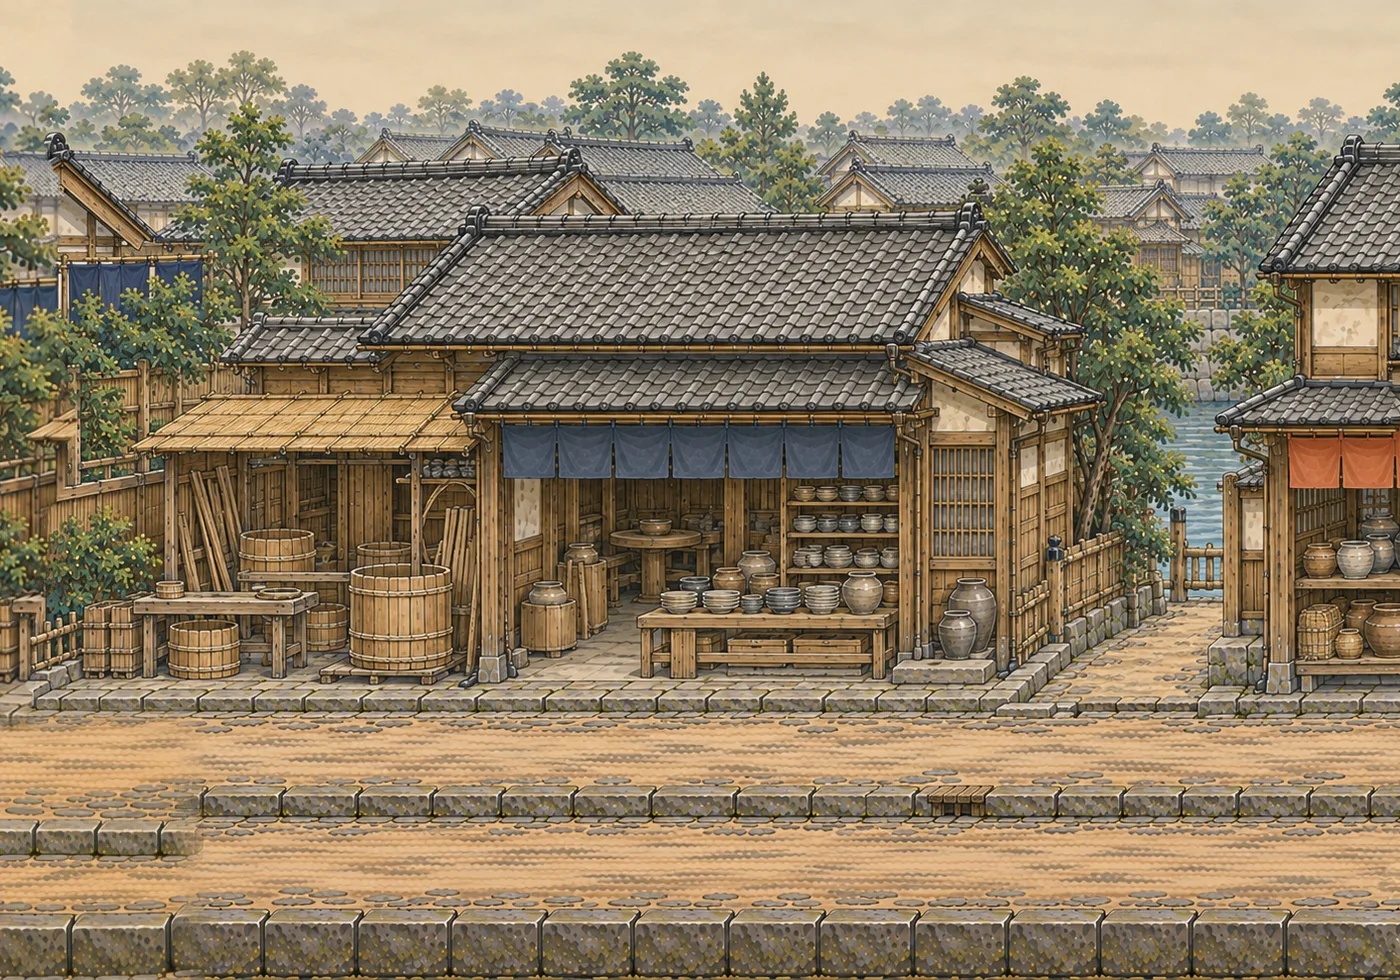
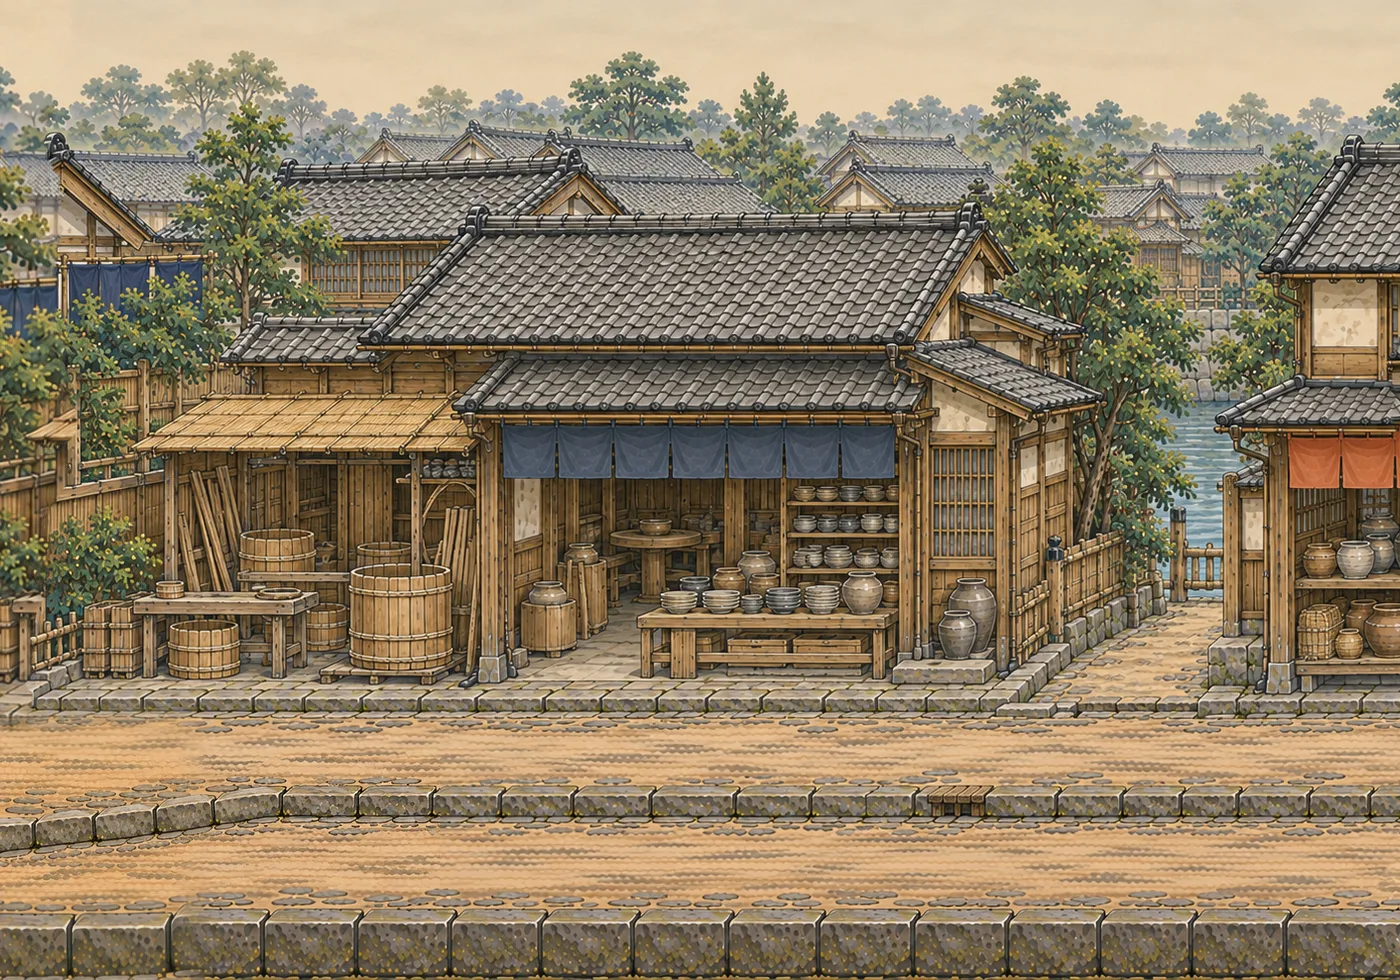
江户长卷 10|11 接缝 v3：接入 Codex 的中排路沿局部补丁
- 采用 Codex 的候选 03（codex/painted-worlds-art 544c894，seam-10-11-v3），按它给的运行坐标放在 (5320,750)，尺寸 720×140。
- 左右两端保持硬边，上下边缘做 6 px 羽化，消除横向接痕。
- 中排路沿的突然抬高变成平缓的坡；前排大路沿、建筑和道具不变。只改 street-3、street-4。
- cx-build.cjs 新增矩形补丁（cx/rects/*.json），记录在 docs/painted-worlds/art/edo/seams-v2/。

Claude-Session: https://claude.ai/code/session_017B9khwgPhjnf7esrFV7VAS

Changed region(s): [[0.0, 0.7959, 0.3071, 0.8878]]

diff --git a/docs/painted-worlds/art/edo/seams-v2/README.md b/docs/painted-worlds/art/edo/seams-v2/README.md
@@ -10,6 +10,11 @@
 | 11\|12（≈3007） | 两次重绘都更差，改用前景板车遮挡 | **v2 原样**：已自然连贯；板车道具作为街景保留 |
 
 - 余下的小问题：10\|11 中排的小路沿在右侧有一点高低差，看起来像两段路沿，不算破绽。已告诉 Codex。
+- **v3（2026-11-01）**：Codex 的 10\|11 中排路沿局部补丁候选 03（`codex/painted-worlds-art` 544c894，`seam-10-11-v3/`）已接入。
+  - 按 Codex 给的运行坐标放置：生成图裁窗 (0,151,2170,420)，放到镜像后长卷的像素 (5320,750)，尺寸 720×140。
+  - 左右两端保持硬边，上下边缘在泥地上做 6 px 羽化，消除横向接痕；没有做宽羽化。
+  - 中排路沿的突然抬高变成了平缓的坡；前排大路沿、建筑和道具都没有改动。只改了 street-3、street-4。
+  - 记录：`s10-s11-v3.json`；对照图：`s10-s11-v3-claude-vs-codex-preview.webp`（上为接入结果，下为 Codex 的预览）。`cx-build.cjs` 新增了矩形补丁（`cx/rects/*.json`）。
 - 检查：改动的 9 张街景图里，人物脚点和路人都在路面上（茶店、布屋、藍甕、菜園、桶屋五处截图）；江户测试 55 项与全部回归脚本无错误。
 - 同时把「柳と荷舟」写生的取景改为 Codex 建议的 x0=13100，让荷舟完整入画。
 - `compare-*.webp`：每处接缝的三张对比（原始 v1 / Claude v1 修补 / Codex v2）。
